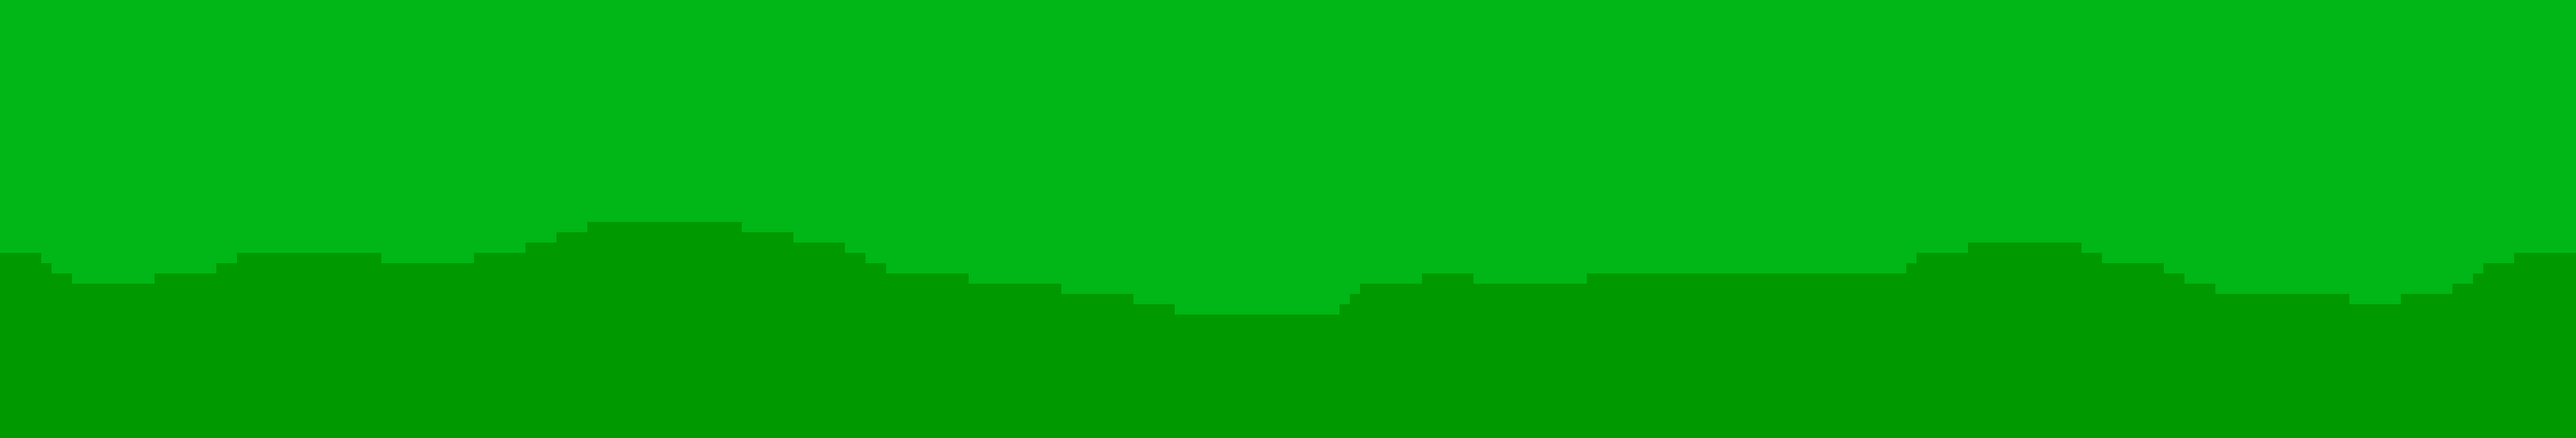
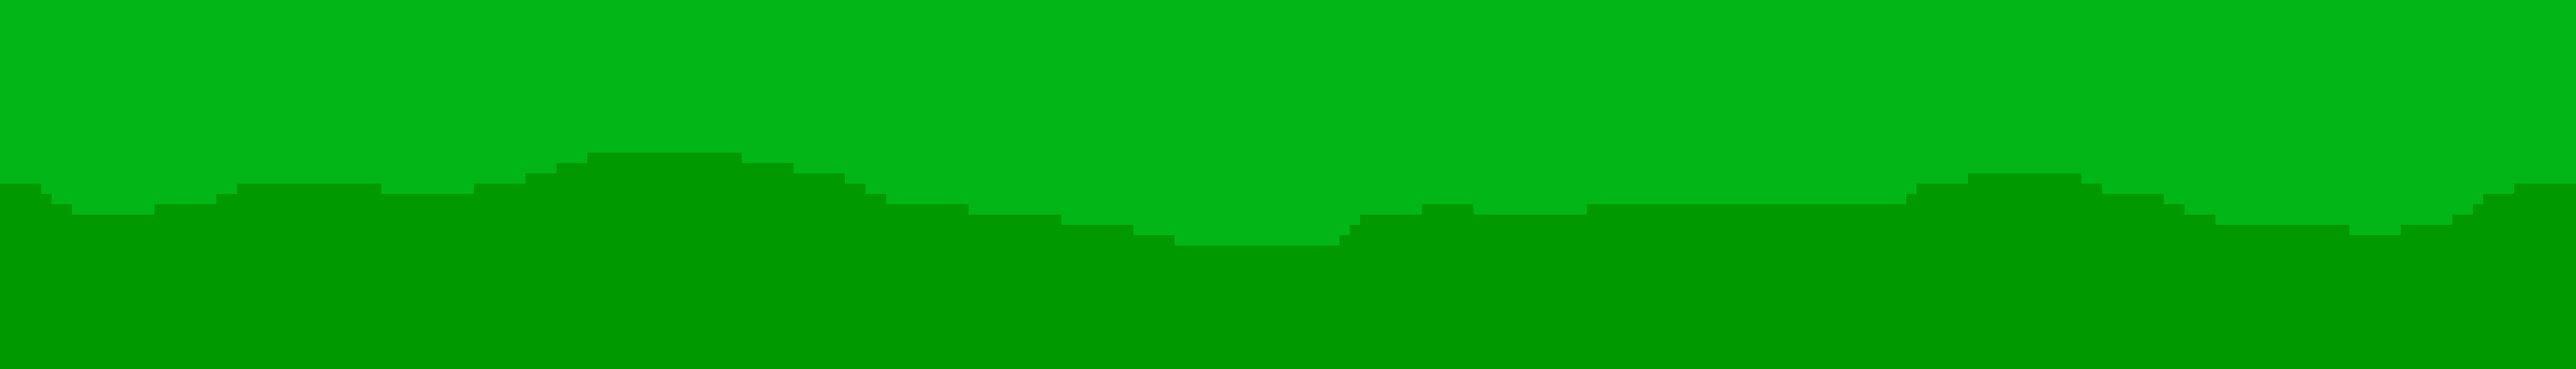
lag fix we forgot .convert()

Changed region(s): [[0.0, 0.393, 1.0, 0.7256]]

diff --git a/classes/GameWorld.py b/classes/GameWorld.py
@@ -26,9 +26,9 @@ class GameWorld(metaclass=Singleton):
         self._clock = pygame.time.Clock()
         self._font = pygame.font.SysFont(None, 48)
         self.endscreen_string = "you suck"
-        self.background_image = pygame.image.load("./images/Sky.png")
+        self.background_image = pygame.image.load("./images/Sky.png").convert_alpha()
         self.background_image = pygame.transform.scale(self.background_image, (1920, 1080))
-
+        self.background_rect = self.background_image.get_rect()
         self.grenades = 0
         self.difficulty = 0
         self.game_objects = pygame.sprite.Group()
@@ -229,7 +229,7 @@ class GameWorld(metaclass=Singleton):
         """
         # Clear the screen
         self._screen.fill((63, 153, 249))
-        # self._screen.blit(self.background_image, (0, 0))
+        self._screen.blit(self.background_image, self.background_rect)
 
         # draw background with parallax
         Parallax().draw(self._screen)

diff --git a/classes/Parallax.py b/classes/Parallax.py
@@ -25,8 +25,8 @@ class Parallax(metaclass = Singleton):
         self.layer3_scroll_speed = 0.8
 
         self.layer1_height = 0
-        self.layer2_height = 300
-        self.layer3_height = 580
+        self.layer2_height = 450
+        self.layer3_height = 700
 
         self.tiles = 3
 
